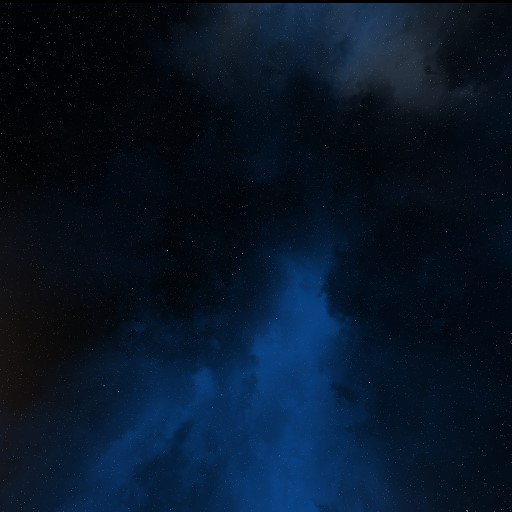
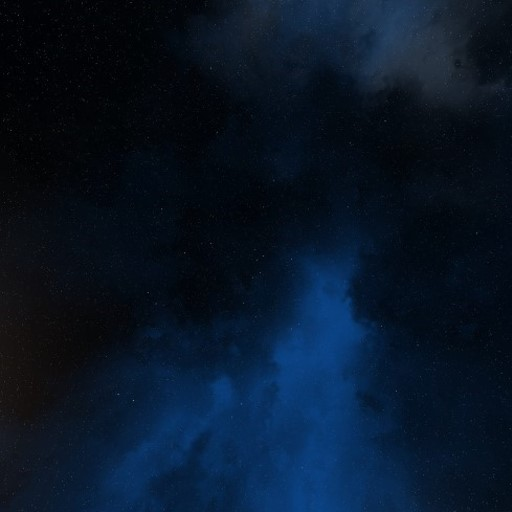
Rearranged the skybox to create a panoramic image

diff --git a/Tancodrom/Tancodrom/Tancodrom.cpp b/Tancodrom/Tancodrom/Tancodrom.cpp
@@ -186,12 +186,12 @@ std::vector<std::string> facesDay
 std::vector<std::string>facesNight
 {
 
-      "skybox_images_night\\skybox_night_right.jpg",
-      "skybox_images_night\\skybox_night_left.jpg",
-      "skybox_images_night\\skybox_night_top.jpg",
-      "skybox_images_night\\skybox_night_bottom.jpg",
       "skybox_images_night\\skybox_night_front.jpg",
-      "skybox_images_night\\skybox_night_back.jpg"
+      "skybox_images_night\\skybox_night_back.jpg",
+      "skybox_images_night\\skybox_night_left.jpg",
+      "skybox_images_night\\skybox_night_right.jpg",
+      "skybox_images_night\\skybox_night_top.jpg",
+      "skybox_images_night\\skybox_night_bottom.jpg"
 };
 
 //std::vector<std::string> faces = facesDay;
